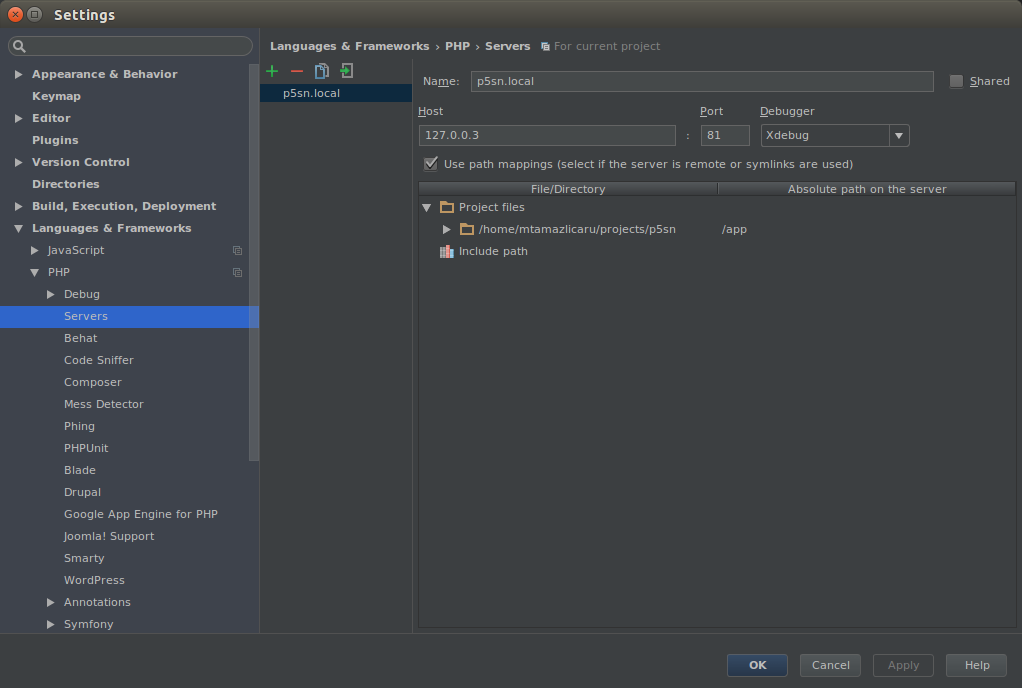
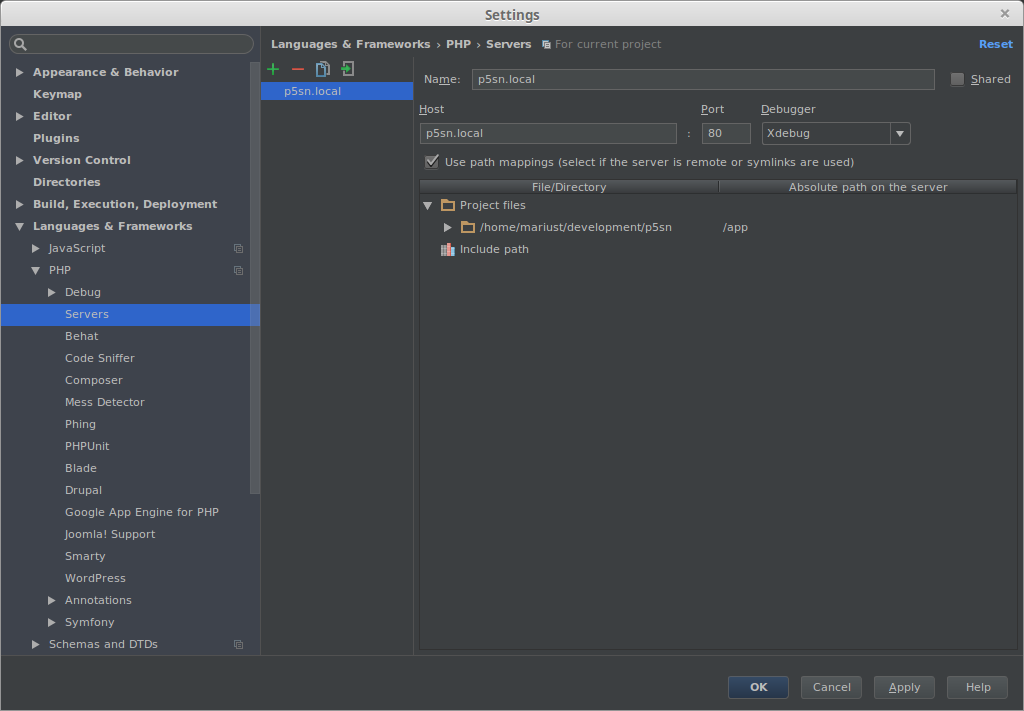
Updated README.md, Dockerfile to fix problem with PHP_IDE_CONFIG.

diff --git a/README.md b/README.md
@@ -39,7 +39,9 @@
     permission that will change permissions
 5. Give [permissions](http://symfony.com/doc/2.3/book/installation.html) to `cache/, logs` maps
 6. Run: `composer install`
-7. Have fun!
+7. Execute from terminal on your local machine: `sudo nano /etc/hosts`
+8. Add there and save: `127.0.0.3    p5sn.local`
+8. Have fun!
 
 
 ### Configuring xdebug in PhpStorm
